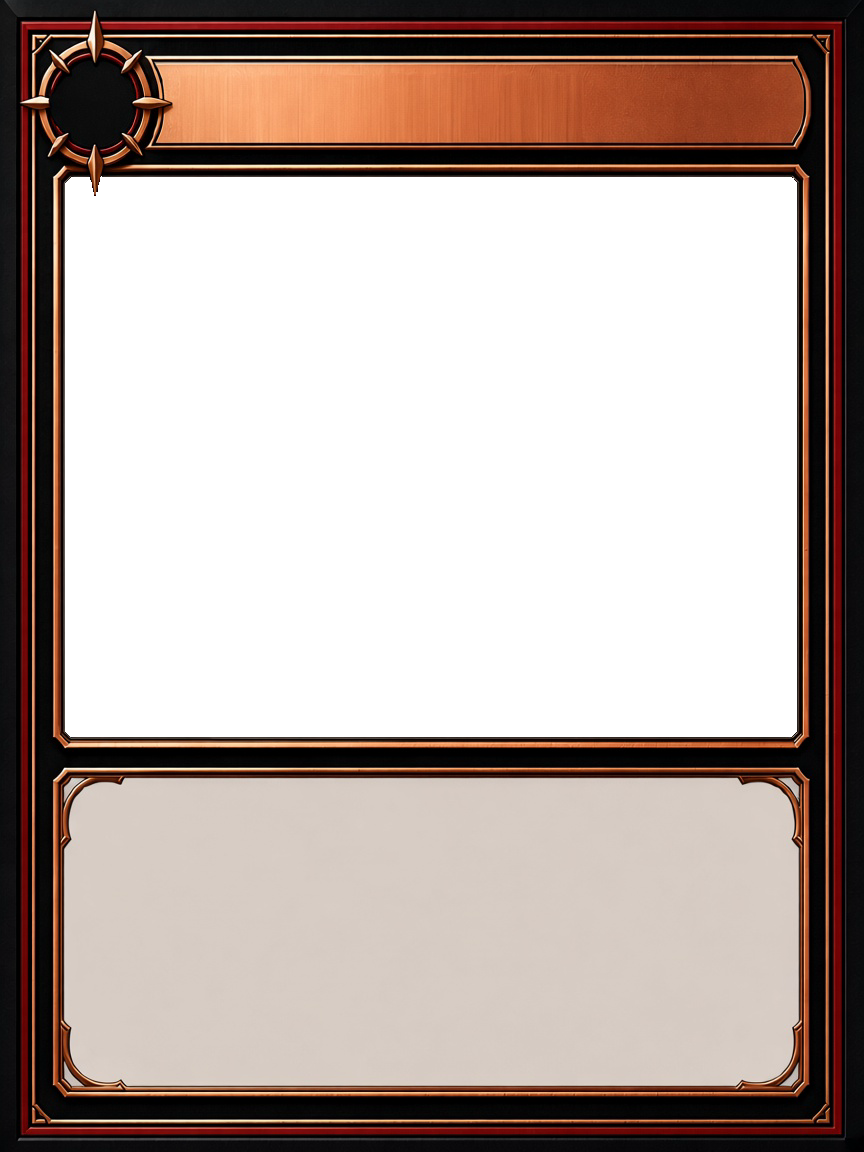
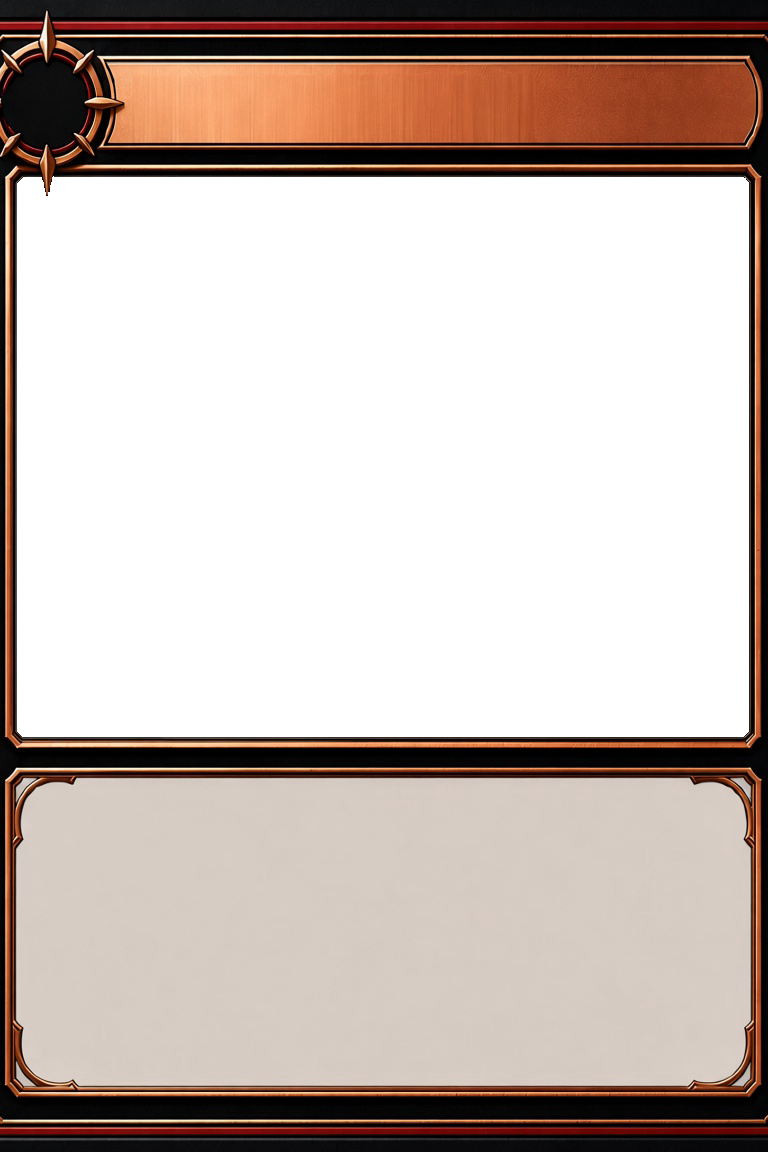
Fix card style zoom and restore the 2:3 frame size.

Changed region(s): [[0.0, 0.0, 0.2188, 1.0], [0.8438, 0.0, 1.0, 1.0]]

diff --git a/index.html b/index.html
@@ -3454,9 +3454,9 @@
       background: var(--frame-img) center / 100% 100% no-repeat;
     }
     .card .card-fit .frame::before, .card .card-fit .frame::after { content: none; }
-    .card .card-fit.r1 { --frame-img: url("card-blank-attack-copper.png?v=2"); }
-    .card .card-fit.r2 { --frame-img: url("card-blank-attack-silver.png?v=2"); }
-    .card .card-fit.r3 { --frame-img: url("card-blank-attack-gold.png?v=2"); }
+    .card .card-fit.r1 { --frame-img: url("card-blank-attack-copper.png?v=3"); }
+    .card .card-fit.r2 { --frame-img: url("card-blank-attack-silver.png?v=3"); }
+    .card .card-fit.r3 { --frame-img: url("card-blank-attack-gold.png?v=3"); }
     .card .card-fit.k-attack.rboss { --frame-img: url("frame-attack-boss.png?v=3"); }
     .card .card-fit.k-block.rboss { --frame-img: url("frame-block-boss.png?v=3"); }
     .card .card-fit.k-skill.rboss { --frame-img: url("frame-skill-boss.png?v=3"); }
@@ -9178,17 +9178,9 @@
 
     function artZoomSide(name) {
       if (!name) return "";
-      const masterZoom = {
-        "style-star1": { label: "★ 銅", src: "card-style-redo-b-copper.png?v=1", alt: "★の枠。銅" },
-        "style-star2": { label: "★★ 金", src: "card-style-redo-b-gold.png?v=1", alt: "★★の枠。金" },
-        "style-star3-attack": { label: "★★★ 攻撃（赤）", src: "card-style-redo-b-red.png?v=1", alt: "★★★の攻撃。赤" },
-        "style-star3-block": { label: "★★★ 防御（青）", src: "card-style-redo-b-blue.png?v=1", alt: "★★★の防御。青" },
-        "style-star3-skill": { label: "★★★ スキル（黄）", src: "card-style-redo-b-yellow.png?v=1", alt: "★★★のスキル。黄" },
-        "style-star3-power": { label: "★★★ アイテム（緑）", src: "card-style-redo-b-green.png?v=1", alt: "★★★のアイテム。緑" },
-        "style-star3-foe": { label: "★★★ 敵（紫）", src: "card-style-redo-b-purple.png?v=1", alt: "★★★の敵。紫" },
-      }[name];
-      if (masterZoom) {
-        return zoomSidePanel(masterZoom.label, `<img class="art-zoom-img" src="${masterZoom.src}" alt="${esc(masterZoom.alt)}">`);
+      const style = CARD_STYLE.find((item) => item[0] === name);
+      if (style) {
+        return zoomSidePanel(style[1], `<img class="art-zoom-img" src="${style[2]}" alt="${esc(style[1])}">`);
       }
       const card = albumCatalog().find((item) => item.name === name) || { name, ...(CARDS[name] || WARRIOR[name] || COMMON[name] || {}) };
       const body = `<div class="art-zoom-card"><div class="card preview ${cardKind(card)}">${cardFace(card, false)}</div></div>`;
@@ -9657,9 +9649,9 @@
     }
 
     const CARD_STYLE = [
-      ["style-star1", "★ 銅", "card-blank-attack-copper.png?v=2"],
-      ["style-star2", "★★ 銀", "card-blank-attack-silver.png?v=2"],
-      ["style-star3", "★★★ 金", "card-blank-attack-gold.png?v=2"],
+      ["style-star1", "★ 銅", "card-blank-attack-copper.png?v=3"],
+      ["style-star2", "★★ 銀", "card-blank-attack-silver.png?v=3"],
+      ["style-star3", "★★★ 金", "card-blank-attack-gold.png?v=3"],
     ];
     function cardStyleSheet() {
       return CARD_STYLE.map((item) => {
